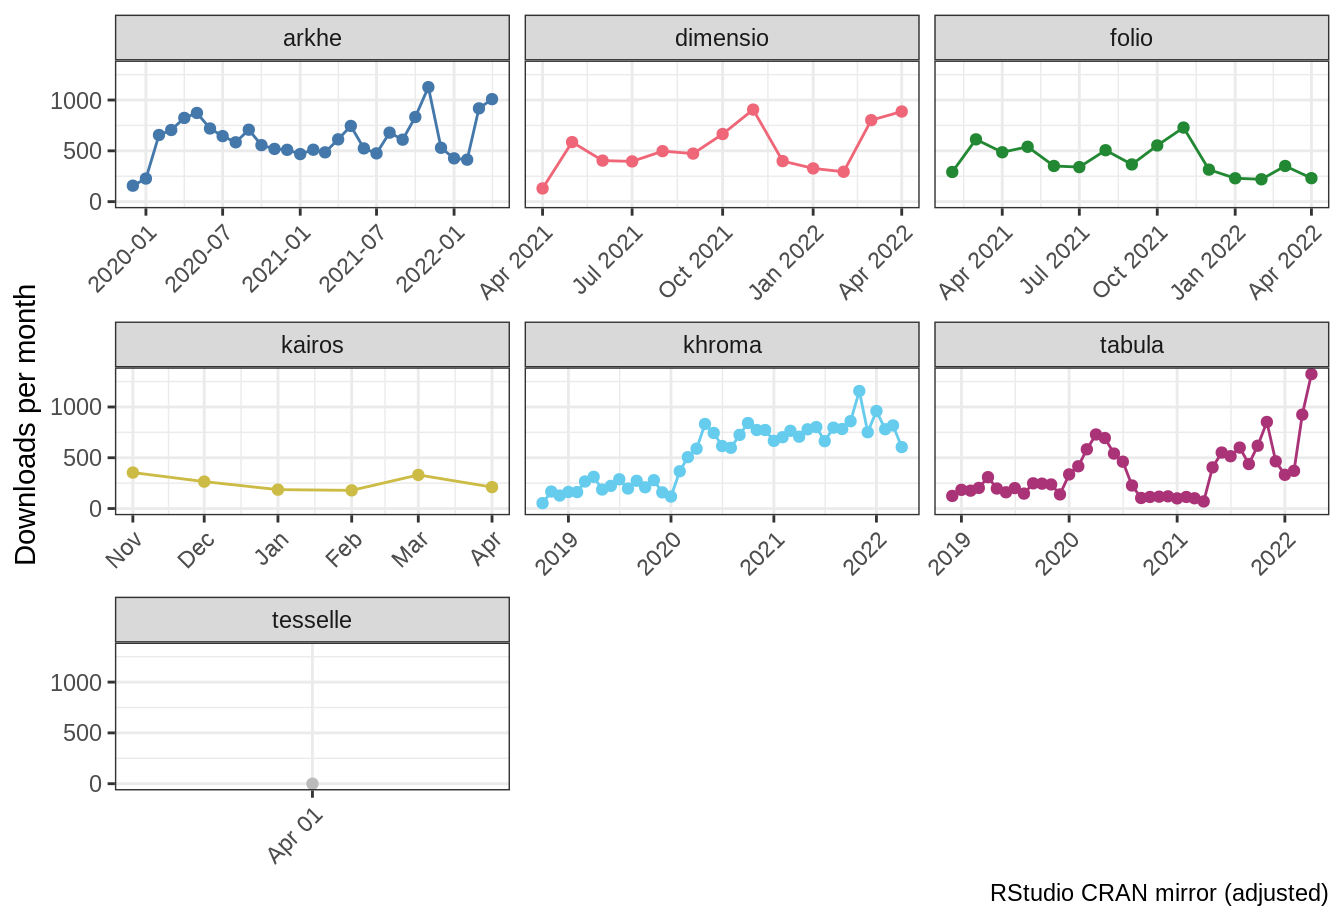
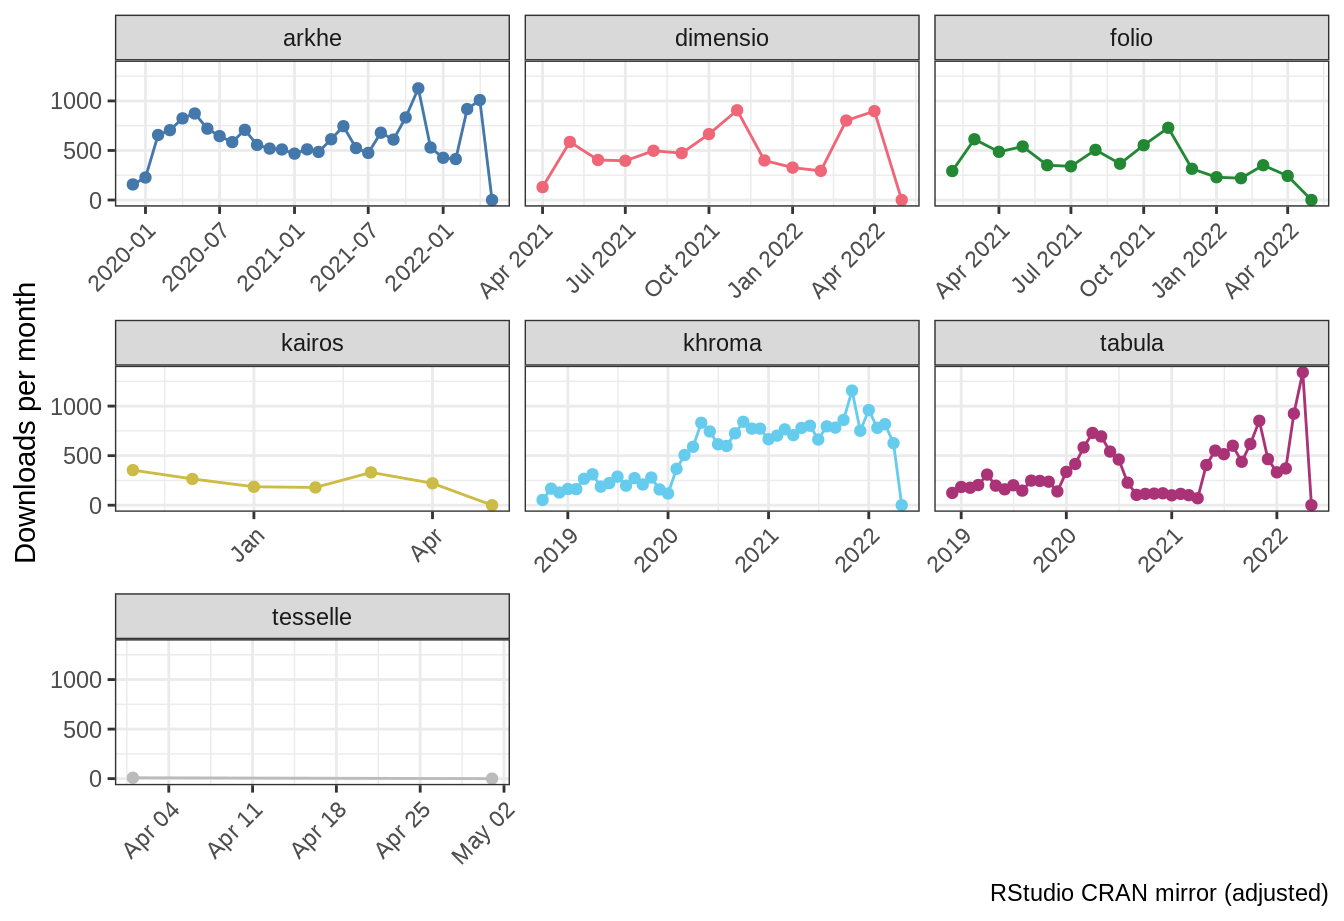
Deploying to gh-pages from @ tesselle/packages@18631cd59db1ec6a90ff8a9579786ddba60cfcf7 🚀

diff --git a/index.html b/index.html
@@ -2661,7 +2661,7 @@ window.FlexDashboardComponents.push({
 <h2 class="sidebar">tesselle</h2>
 <p><a href="https://www.tesselle.org/"><strong>tesselle</strong></a> is a collection of <a href="https://www.r-project.org/">R</a> packages for research and teaching in archaeology. These packages focus on quantitative analysis methods developed for archaeology.</p>
 <p>The <strong>tesselle</strong> packages are designed to work seamlessly together and to complement general-purpose and other specialized statistical packages.</p>
-<p>Last update: 2022-04-29.</p>
+<p>Last update: 2022-05-02.</p>
 </div>
 <div id="column" class="section level2 tabset">
 <h2 class="tabset">Column</h2>
@@ -2769,10 +2769,10 @@ window.FlexDashboardComponents.push({
 </tr>
 <tr class="even">
 <td align="left"><a href="https://cloud.r-project.org/web/checks/check_results_dimensio.html" title="CRAN check results for dimensio">dimensio</a></td>
-<td align="right">13</td>
+<td align="right">12</td>
 <td align="right">0</td>
 <td align="right">0</td>
-<td align="right">0</td>
+<td align="right">1</td>
 <td align="right">0</td>
 </tr>
 <tr class="odd">
@@ -2785,18 +2785,18 @@ window.FlexDashboardComponents.push({
 </tr>
 <tr class="even">
 <td align="left"><a href="https://cloud.r-project.org/web/checks/check_results_kairos.html" title="CRAN check results for kairos">kairos</a></td>
-<td align="right">7</td>
+<td align="right">6</td>
 <td align="right">6</td>
 <td align="right">0</td>
-<td align="right">0</td>
+<td align="right">1</td>
 <td align="right">0</td>
 </tr>
 <tr class="odd">
 <td align="left"><a href="https://cloud.r-project.org/web/checks/check_results_khroma.html" title="CRAN check results for khroma">khroma</a></td>
-<td align="right">13</td>
+<td align="right">12</td>
 <td align="right">0</td>
 <td align="right">0</td>
-<td align="right">0</td>
+<td align="right">1</td>
 <td align="right">0</td>
 </tr>
 <tr class="even">
@@ -2809,10 +2809,10 @@ window.FlexDashboardComponents.push({
 </tr>
 <tr class="odd">
 <td align="left"><a href="https://cloud.r-project.org/web/checks/check_results_tesselle.html" title="CRAN check results for tesselle">tesselle</a></td>
+<td align="right">5</td>
+<td align="right">3</td>
+<td align="right">0</td>
 <td align="right">1</td>
-<td align="right">2</td>
-<td align="right">0</td>
-<td align="right">0</td>
 <td align="right">0</td>
 </tr>
 </tbody>
@@ -2855,12 +2855,12 @@ Dependency graph of the tesselle packages (CRAN only).
 </div>
 <p><span class="value-output" data-icon="fab fa-r-project" data-color="bg-success" data-href="https://cloud.r-project.org/web/checks/check_results_arkhe.html">arkhe</span></p>
 </div>
-<div id="cran-check-ok-1" class="section level3">
-<h3>CRAN check: OK</h3>
+<div id="cran-check-error" class="section level3">
+<h3>CRAN check: error</h3>
 <div class="knitr-options" data-fig-width="576" data-fig-height="460">
 
 </div>
-<p><span class="value-output" data-icon="fab fa-r-project" data-color="bg-success" data-href="https://cloud.r-project.org/web/checks/check_results_dimensio.html">dimensio</span></p>
+<p><span class="value-output" data-icon="fab fa-r-project" data-color="bg-danger" data-href="https://cloud.r-project.org/web/checks/check_results_dimensio.html">dimensio</span></p>
 </div>
 <div id="cran-check-note" class="section level3">
 <h3>CRAN check: note</h3>
@@ -2869,33 +2869,33 @@ Dependency graph of the tesselle packages (CRAN only).
 </div>
 <p><span class="value-output" data-icon="fab fa-r-project" data-color="bg-info" data-href="https://cloud.r-project.org/web/checks/check_results_folio.html">folio</span></p>
 </div>
-<div id="cran-check-note-1" class="section level3">
-<h3>CRAN check: note</h3>
+<div id="cran-check-error-1" class="section level3">
+<h3>CRAN check: error</h3>
 <div class="knitr-options" data-fig-width="576" data-fig-height="460">
 
 </div>
-<p><span class="value-output" data-icon="fab fa-r-project" data-color="bg-info" data-href="https://cloud.r-project.org/web/checks/check_results_kairos.html">kairos</span></p>
+<p><span class="value-output" data-icon="fab fa-r-project" data-color="bg-danger" data-href="https://cloud.r-project.org/web/checks/check_results_kairos.html">kairos</span></p>
 </div>
-<div id="cran-check-ok-2" class="section level3">
-<h3>CRAN check: OK</h3>
+<div id="cran-check-error-2" class="section level3">
+<h3>CRAN check: error</h3>
 <div class="knitr-options" data-fig-width="576" data-fig-height="460">
 
 </div>
-<p><span class="value-output" data-icon="fab fa-r-project" data-color="bg-success" data-href="https://cloud.r-project.org/web/checks/check_results_khroma.html">khroma</span></p>
+<p><span class="value-output" data-icon="fab fa-r-project" data-color="bg-danger" data-href="https://cloud.r-project.org/web/checks/check_results_khroma.html">khroma</span></p>
 </div>
-<div id="cran-check-ok-3" class="section level3">
+<div id="cran-check-ok-1" class="section level3">
 <h3>CRAN check: OK</h3>
 <div class="knitr-options" data-fig-width="576" data-fig-height="460">
 
 </div>
 <p><span class="value-output" data-icon="fab fa-r-project" data-color="bg-success" data-href="https://cloud.r-project.org/web/checks/check_results_tabula.html">tabula</span></p>
 </div>
-<div id="cran-check-note-2" class="section level3">
-<h3>CRAN check: note</h3>
+<div id="cran-check-error-3" class="section level3">
+<h3>CRAN check: error</h3>
 <div class="knitr-options" data-fig-width="576" data-fig-height="460">
 
 </div>
-<p><span class="value-output" data-icon="fab fa-r-project" data-color="bg-info" data-href="https://cloud.r-project.org/web/checks/check_results_tesselle.html">tesselle</span></p>
+<p><span class="value-output" data-icon="fab fa-r-project" data-color="bg-danger" data-href="https://cloud.r-project.org/web/checks/check_results_tesselle.html">tesselle</span></p>
 </div>
 </div>
 
